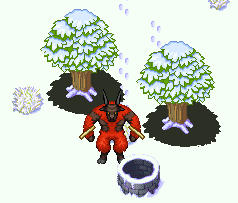
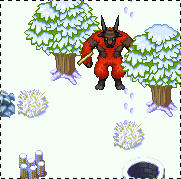
Updated ImageLoader and screenshot.

diff --git a/public/js/app/Game.js b/public/js/app/Game.js
@@ -1,0 +1,105 @@
+define(['app/Sketch', 'app/Input', 'app/ImageLoader', 'app/polyfills'],
+function (Sketch, Input, ImageLoader) {
+  
+  'use strict';
+  
+  var Game = {
+    
+    init: function (args) {
+      
+      this.sketch = Object.create(Sketch).init();
+      this.canvas = this.sketch.createCanvas('main', 640, 480);
+      this.sketch.appendCanvasToContainer('main');
+      
+      this.entities = [];
+      this.entitiesChanged = false;
+      this.refreshConstantly = this.refreshConstantly.bind(this);
+      
+      this.initInput();
+      
+      this.sketch.loadImages(args.images, (function () {
+        args.setup();
+        this.refreshConstantly();
+      }).bind(this));
+    },
+    
+    initInput: function () {
+      this.input = Object.create(Input);
+      this.input.init({
+        65: function (event) {
+          player.startMovingContinuously('left', currentMap, entities, this, event.which);
+        },
+        87: function (event) {
+          player.startMovingContinuously('up', currentMap, entities, this, event.which);
+        },
+        68: function (event) {
+          player.startMovingContinuously('right', currentMap, entities, this, event.which);
+        },
+        83: function (event) {
+          player.startMovingContinuously('down', currentMap, entities, this, event.which);
+        },
+      }, {
+        65: {
+          direction: 'left',
+          opposite: 68,
+          adjacent: 87
+        },
+        87: {
+          direction: 'up',
+          opposite: 83,
+          adjacent: 65
+        },
+        68: {
+          direction: 'right',
+          opposite: 65,
+          adjacent: 87
+        },
+        83: {
+          direction: 'down',
+          opposite: 87,
+          adjacent: 65
+        }
+      });
+    },
+    
+    refresh: (function () {
+      var callback = function (a, b) {
+        return a.y - b.y;
+      };
+      return function () {
+        if (this.entitiesChanged) {
+          console.log('Entities were changed!');
+          // NOTE FOR THE FUTURE:
+          // Is it safe to be constantly sorting the entities?
+          // Will that cause interference anywhere else?
+          this.entities = this.entities.sort(callback);
+          this.entitiesChanged = false;
+        }
+        console.log(this);
+        this.canvas.drawLayeredMap(this.currentMap, this.entities);
+      }
+    }()),
+    
+    refreshConstantly: function () {
+      this.refresh();
+      requestAnimationFrame(this.refreshConstantly);
+    },
+    
+    addEntity: function (entity) {
+      entity.game = this;
+      this.entities.push(entity);
+      this.entitiesChanged = true;
+    },
+    
+    removeEntity: function (entity) {
+      var index = this.entities.indexOf(entity);
+      if (index > -1) {
+        delete entity.game;
+        this.entities.splice(index, 1);
+        this.entitiesChanged = true;
+      }
+    },
+  };
+  
+  return Game;
+});  

diff --git a/public/js/app/ImageLoader.js b/public/js/app/ImageLoader.js
@@ -4,58 +4,34 @@ function () {
   'use strict';
   
   var ImageLoader = {
-  
-    // Loads a single image and executes a callback on completion
-    loadImage: function (src, onImageLoad) {
-      var image = new Image();
-      image.addEventListener('load', function () {
-        onImageLoad(image);
-      }, false);
-      image.src = src;
-    },
     
-    // Loads an array of images and executes a callback after the last
-    // one's completion.
-    // If an array is passed, returns an array of HTMLImageElements.
-    // If an object is passed, `srcs` is assumed to be a dictionary of
-    // image sources. The returned value will be a dictionary
-    // of HTMLImageElements.
-    loadImages: function (srcs, onImagesLoad) {
-      var images, i, len, numSrcs, numLoaded, name;
+    // Loads images from a dictionary of name and src pairs.
+    // Then merges the resultant HTMLImageElements into a dictionary
+    // of name and HTMLImageElement pairs. Also passes that
+    // dictionary to a callback.
+    loadImages: function (container, srcs, callback) {
+      var numSrcs, numLoaded, name;
       
-      // Create an array of HTMLImageElements.
-      if (Array.isArray(srcs)) {
-        images = [];
-      
-        for (i = 0, len = srcs.length; i < len; i++) {
-          this.loadImage(srcs[i], function (image) {
-            images.push(image);
-            if (images.length === len) {
-              onImagesLoad(images);
-            }
-          });
-        }
+      if (container === null) {
+        container = Object.create(null);
       }
-      // Create a dictionary of HTMLImageElements.
-      else {
-        // CONSIDER: Allow object to be passed in that
-        // can just have properties slapped on? (Performance, avoid copying.)
-        images = {};
-        numSrcs = Object.keys(srcs).length;
-        numLoaded = 0;
-        
-        for (name in srcs) {
-          ImageLoader.loadImage(srcs[name], (function () {
-            var boundName = name;
-            return function (image) {
-              images[boundName] = image;
-              numLoaded++;
-              if (numLoaded === numSrcs) {
-                onImagesLoad(images);
-              }
-            };
-          }()));
-        }
+      numSrcs = Object.keys(srcs).length;
+      numLoaded = 0;
+      
+      for (name in srcs) {
+        var image = new Image();
+        image.addEventListener('load', (function () {
+          var boundName = name;
+          var boundImage = image;
+          return function () {
+            container[boundName] = boundImage;
+            numLoaded++;
+            if (numLoaded === numSrcs) {
+              callback(container);
+            }
+          };
+        }()), false);
+        image.src = srcs[name];
       }
     }
   

diff --git a/public/js/app/Canvas.js b/public/js/app/Canvas.js
@@ -84,7 +84,7 @@ function (Tile) {
       yStart = spriteHeight * directionRow;
       
       //this.ctx.fillStyle = '#'+Math.floor(Math.random()*16777215).toString(16);
-      this.ctx.fillRect(entity.x, entity.y, entity.width, entity.height)
+      //this.ctx.fillRect(entity.x, entity.y, entity.width, entity.height)
       this.drawSlice(
         image,
         xStart, yStart,

diff --git a/public/js/app/main.js b/public/js/app/main.js
@@ -90,7 +90,7 @@ sketch.createCanvas('main', 640, 480);
 sketch.createCanvas('rendering', 640, 480);
 sketch.appendCanvas('main');
 
-ImageLoader.loadImages({
+ImageLoader.loadImages(null, {
   
   'tilesets/icy': '/images/tilesets/Gratheo-breezeicyyj9.png',
   'sprites/gir': '/images/sprites/Gir-f_girsample2m_e3814ec.png',
